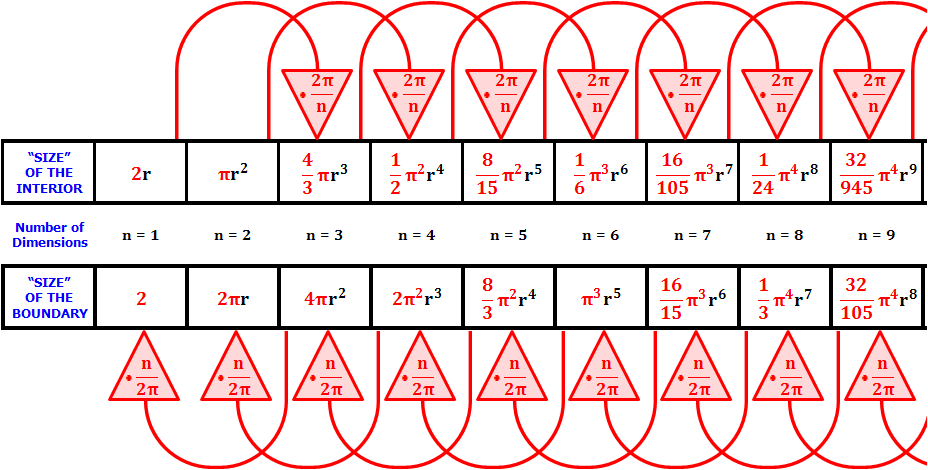
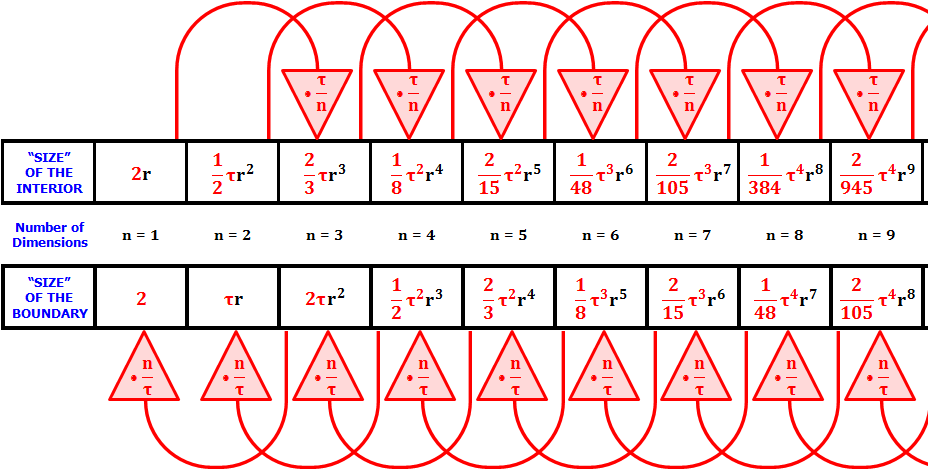
Polish, add Joseph Lindenberg's new figure

diff --git a/chapters/tau_manifesto.tex b/chapters/tau_manifesto.tex
@@ -620,11 +620,14 @@ V_n(r) = \begin{cases}
 \end{equation}
 
 Let's examine Eq.~\eqref{eq:volume_mathworld} in more detail. Notice first that MathWorld uses the \emph{double factorial function}~$n!!$---but, strangely, it uses it only in the \emph{odd} case. (This is a hint of things to come.) The double factorial function, although rarely encountered in mathematics, is elementary: it's like the normal factorial function, but involves subtracting $2$ at a time instead of $1$, so that, e.g., $5!! = 5 \cdot 3 \cdot 1$ and $6!! = 6 \cdot 4 \cdot 2$. In general, we have
-\[ n!! = \begin{cases}
- n(n-2)(n-4)\ldots6\cdot4\cdot2 & \text{if } n \text{ is even}; \\ \\
- n(n-2)(n-4)\ldots5\cdot3\cdot1 & \text{if } n \text{ is odd}.
- \end{cases} \]
- (By definition, $0!! = 1!! = 1$.) Note that this definition naturally divides into even and odd cases, making MathWorld's decision to use it only in the odd case still more mysterious.
+\begin{equation}
+\label{eq:double_factorial}
+n!! = \begin{cases}
+n(n-2)(n-4)\ldots6\cdot4\cdot2 & \text{if } n \text{ is even}; \\ \\
+n(n-2)(n-4)\ldots5\cdot3\cdot1 & \text{if } n \text{ is odd}.
+\end{cases}
+\end{equation}
+(By definition, $0!! = 1!! = 1$.) Note that Eq.~\eqref{eq:double_factorial} naturally divides into even and odd cases, making MathWorld's decision to use it only in the odd case still more mysterious.
 
 To solve this mystery, we'll start by taking a closer look at the formula for odd~$n$ in Eq.~\eqref{eq:volume_mathworld}:
 \[ \frac{2^{(n+1)/2}\pi^{(n-1)/2}\,r^n}{n!!} \]
@@ -759,7 +762,7 @@ To my knowledge, Eq.~\eqref{eq:surface_area_lambda} and Eq.~\eqref{eq:volume_lam
 \subsubsection{Recurrences} % (fold)
 \label{sec:recurrences}
 
-We've now seen, via Eq.~\eqref{eq:surface_area_lambda} and Eq.~\eqref{eq:volume_lambda}, that the surface area and volume formulas are simplest in terms of the right angle~$\lambda$. Nevertheless, we're not done with $\tau$.
+We've now seen, via Eq.~\eqref{eq:surface_area_lambda} and Eq.~\eqref{eq:volume_lambda}, that the surface area and volume formulas are simplest in terms of the right angle~$\lambda$. Nevertheless, we're still not done with $\tau$.
 
 As seen in Eq.~\eqref{eq:volume_lambda}, the volume formula divides naturally into two families, corresponding to even- and odd-dimensional spaces, respectively. This means that the four-dimensional volume, $V_4$, is related simply to $V_2$ but not to $V_3$, while $V_3$ is related to $V_1$ but not to $V_2$. How exactly are they related?
 
@@ -774,7 +777,7 @@ We can find the answer by deriving the \emph{recurrence relations} between dimen
 =
 \frac{2^2\lambda}{n}\,r^2.
 \end{equation}
-In words, Eq.~\eqref{eq:volume_recurrence} says that we can obtain the volume of an $n$-sphere simply by multiplying the formula for the $(n-2)$-sphere by $r^2$ (a factor required by dimensional analysis), dividing by $n$, and multiplying by the ``recurrence constant'' $2^2\lambda$.
+We see from Eq.~\eqref{eq:volume_recurrence} that we can obtain the volume of an $n$-sphere simply by multiplying the formula for an $(n-2)$-sphere by $r^2$ (a factor required by dimensional analysis), dividing by $n$, and multiplying by the ``recurrence constant'' $2^2\lambda$.
 
 Similarly, for the surface area we have
 \begin{equation}
@@ -798,28 +801,29 @@ V_n(R) &= \int_0^{2\pi} \int_0^R V_{n-2}\left(\sqrt{R^2 - r^2}\right) \,r\,dr\,d
 thus showing that the identification of $\tau$ as the ``recurrence constant'' isn't a coincidence---the recurrence constant and the circle constant really are one and the same:
 \begin{equation}
 \label{eq:tau_recurrence}
-\tau = \mbox{circle constant} = 2^2\lambda = \mbox{recurrence constant}.
+\tau = \mbox{circle constant} = \mbox{recurrence constant} = 2^2\lambda.
 \end{equation}
-
-As a result, it is $\tau$, not $\lambda$, that provides the common thread tying together the two families of even and odd solutions, as illustrated by Joseph Lindenberg in \href{http://sites.google.com/site/taubeforeitwascool/}{Tau Before It Was Cool} (Figure~\ref{fig:Nspheres}). When discussing general $n$-dimensional spheres, for convenience we'll generally write the surface area and volume formulas in terms of $\lambda$ as in Eq.~\eqref{eq:surface_area_lambda} and Eq.~\eqref{eq:volume_lambda}, but for any given $n$ we'll use the recurrence constant $\tau$ (Table~\ref{table:recurrence_constant_tau}).
+As a result, it is $\tau$, not $\lambda$, that provides the common thread tying together the two families of even and odd solutions, as illustrated by Joseph Lindenberg in \href{http://sites.google.com/site/taubeforeitwascool/}{Tau Before It Was Cool} (Figure~\ref{fig:Nspheres}).
 
 \begin{figure}
 \begin{center}
 \image{images/figures/Nspheres.png}
 \end{center}
-\caption{Surface area and volume recurrences (in terms of $2\pi$).\label{fig:Nspheres}}
+\caption{Surface area and volume recurrences.\label{fig:Nspheres}}
 \end{figure}
 
-\begin{table}
-\begin{center}
-\begin{tabular}{c|ccccccccc}
-$V_n(r)$ & $2r$ & $\dfrac{1}{2}\tau r^2$ & $\dfrac{2}{3}\tau r^3$ & $\dfrac{1}{8}\tau^2 r^4$ & $\dfrac{2}{15} \tau^2 r^5$ & $\dfrac{1}{48}\tau^3 r^6$ & $\dfrac{2}{105} \tau^3 r^7$ & $\dfrac{1}{384}\tau^4 r^8$ & $\dfrac{2}{945}\tau^4 r^9$ \\ \hline
-$n$ & $1$ & $2$ & $3$ & $4$ & $5$ & $6$ & $7$ & $8$ & $9$ \\ \hline
-$S_n(r)$ & $2$ & $\tau r$ & $2 \tau r^2$ & $\dfrac{1}{2}\tau^2 r^3$ & $\dfrac{2}{3} \tau^2 r^4$ & $\dfrac{1}{8}\tau^3 r^5$ & $\dfrac{2}{15} \tau^3 r^6$ & $\dfrac{1}{48}\tau^4 r^7$ & $\dfrac{2}{105} \tau^4 r^8$
-\end{tabular}
-\end{center}
-\caption{Writing the recurrences in Figure~\ref{fig:Nspheres} in terms of $\tau$.\label{table:recurrence_constant_tau}}
-\end{table}
+When discussing general $n$-dimensional spheres, for convenience we'll generally write the surface area and volume formulas in terms of $\lambda$ as in Eq.~\eqref{eq:surface_area_lambda} and Eq.~\eqref{eq:volume_lambda}, but for any given $n$ we'll use the recurrence constant $\tau$.
+
+% \begin{table}
+% \begin{center}
+% \begin{tabular}{c|ccccccccc}
+% $V_n(r)$ & $2r$ & $\dfrac{1}{2}\tau r^2$ & $\dfrac{2}{3}\tau r^3$ & $\dfrac{1}{8}\tau^2 r^4$ & $\dfrac{2}{15} \tau^2 r^5$ & $\dfrac{1}{48}\tau^3 r^6$ & $\dfrac{2}{105} \tau^3 r^7$ & $\dfrac{1}{384}\tau^4 r^8$ & $\dfrac{2}{945}\tau^4 r^9$ \\ \hline
+% $n$ & $1$ & $2$ & $3$ & $4$ & $5$ & $6$ & $7$ & $8$ & $9$ \\ \hline
+% $S_n(r)$ & $2$ & $\tau r$ & $2 \tau r^2$ & $\dfrac{1}{2}\tau^2 r^3$ & $\dfrac{2}{3} \tau^2 r^4$ & $\dfrac{1}{8}\tau^3 r^5$ & $\dfrac{2}{15} \tau^3 r^6$ & $\dfrac{1}{48}\tau^4 r^7$ & $\dfrac{2}{105} \tau^4 r^8$
+% \end{tabular}
+% \end{center}
+% \caption{Writing the recurrences in Figure~\ref{fig:Nspheres} in terms of $\tau$.\label{table:recurrence_constant_tau}}
+% \end{table}
 
 % subsubsection recurrences (end)
 
@@ -831,17 +835,17 @@ $S_n(r)$ & $2$ & $\tau r$ & $2 \tau r^2$ & $\dfrac{1}{2}\tau^2 r^3$ & $\dfrac{2}
 
 Armed with the discussion in Section~\ref{sec:volume_of_a_hypersphere}, we're now ready to get to the bottom of $\pi$ and $\tau$. To complete the excavation, we'll use Eq.~\eqref{eq:surface_area_lambda} and Eq.~\eqref{eq:volume_lambda} to define two families of constants, and then use the definition of $\pi$ (Eq.~\eqref{eq:pi}) to define a third.
 
-The first family of constants, the ``surface area'' constants $\tau_n$, is defined by dividing Eq.~\eqref{eq:surface_area_lambda} by the power of $r$ needed to yield a dimensionless constant ($r^{n-1}$):
+First, we'll define a family of ``surface area constants'' $\tau_n$ by dividing Eq.~\eqref{eq:surface_area_lambda} by $r^{n-1}$ (the power of $r$ needed to yield a dimensionless constant):
 \begin{equation}
 \label{eq:surface_area_constants}
 \tau_n \equiv \frac{S_n(r)}{r^{n-1}} = \frac{2^n\,\lambda^{\left\lfloor \frac{n}{2} \right\rfloor}}{(n-2)!!}
 \end{equation}
-The second family, the ``volume constants'' $\sigma_n$, is similiarly defined by dividing the volume formula Eq.~\eqref{eq:volume_lambda} by $r^n$:
+Second, we'll define a family of ``volume constants'' $\sigma_n$ by dividing the volume formula Eq.~\eqref{eq:volume_lambda} by $r^n$:
 \begin{equation}
 \label{eq:volume_constants}
 \sigma_n \equiv \frac{V_n(r)}{r^n} = \frac{2^n\,\lambda^{\left\lfloor \frac{n}{2} \right\rfloor}}{n!!}
 \end{equation}
-With these two families of constants defined in Eq.~\eqref{eq:surface_area_constants} and Eq.~\eqref{eq:volume_constants}, we can write the surface area and volume formulas (Eq.~\eqref{eq:surface_area_lambda} and Eq.~\eqref{eq:volume_lambda}) compactly as follows:
+With the two families of constants defined in Eq.~\eqref{eq:surface_area_constants} and Eq.~\eqref{eq:volume_constants}, we can write the surface area and volume formulas (Eq.~\eqref{eq:surface_area_lambda} and Eq.~\eqref{eq:volume_lambda}) compactly as follows:
 \[ S_n(r) = \tau_n\,r^{n-1} \]
 and
 \[ V_n(r) = \sigma_n\,r^n. \]
@@ -850,11 +854,11 @@ Because of the relation $V_n(r) = \int S_n(r)\,dr$, we have the simple relations
 \sigma_n = \frac{\tau_n}{n}.
 \]
 
-Let us make some observations about these two families of constants. First, the family $\tau_n$ has an important geometric meaning: by setting $r=1$, we see that each $\tau_n$ is the surface area of a unit $n$-sphere, which is also the angle measure of a full $n$-sphere. In particular, by writing $S_n(r)$ as the $n$-dimensional ``arclength'' equal to a fraction~$f$ of the full surface area~$S_n(r)$, we have
+Let us make some observations about these two families of constants. The family $\tau_n$ has an important geometric meaning: by setting $r=1$, we see that each $\tau_n$ is the surface area of a unit $n$-sphere, which is also the angle measure of a full $n$-sphere. In particular, by writing $S_n(r)$ as the $n$-dimensional ``arclength'' equal to a fraction~$f$ of the full surface area~$S_n(r)$, we have
 \[
 \theta_n \equiv \frac{S_n(r)}{r^{n-1}} = \frac{f S_n(r)}{r^{n-1}} = f\left(\frac{S_n(r)}{r^{n-1}}\right) = f\tau_n.
 \]
-Here $\theta_n$ is simply the $n$-dimensional generalization of radian angle measure, and we see that $\tau_n$ is the generalization of ``one turn'' to $n$ dimensions, which explains why the 2-sphere (circle) constant $\tau_2 = 2^2\lambda = \tau$ leads naturally to the diagram shown in Figure~\ref{fig:tau_angles}.
+Here $\theta_n$ is simply the $n$-dimensional generalization of radian angle measure, and we see that $\tau_n$ is the generalization of ``one turn'' to $n$ dimensions, which explains why the 2-sphere (circle) constant $\tau_2 = 2^2\lambda = \tau$ leads naturally to the diagram shown in Figure~\ref{fig:tau_angles}. Furthermore, we learned in Section~\ref{sec:volume_of_a_hypersphere} that $\tau_2$ is also the ``recurrence constant'' for $n$-sphere surface areas and volumes.
 
 Meanwhile, the $\sigma_n$ are the volumes of unit $n$-spheres. In particular, $\sigma_2$ is the area of a unit disk:
 \[
